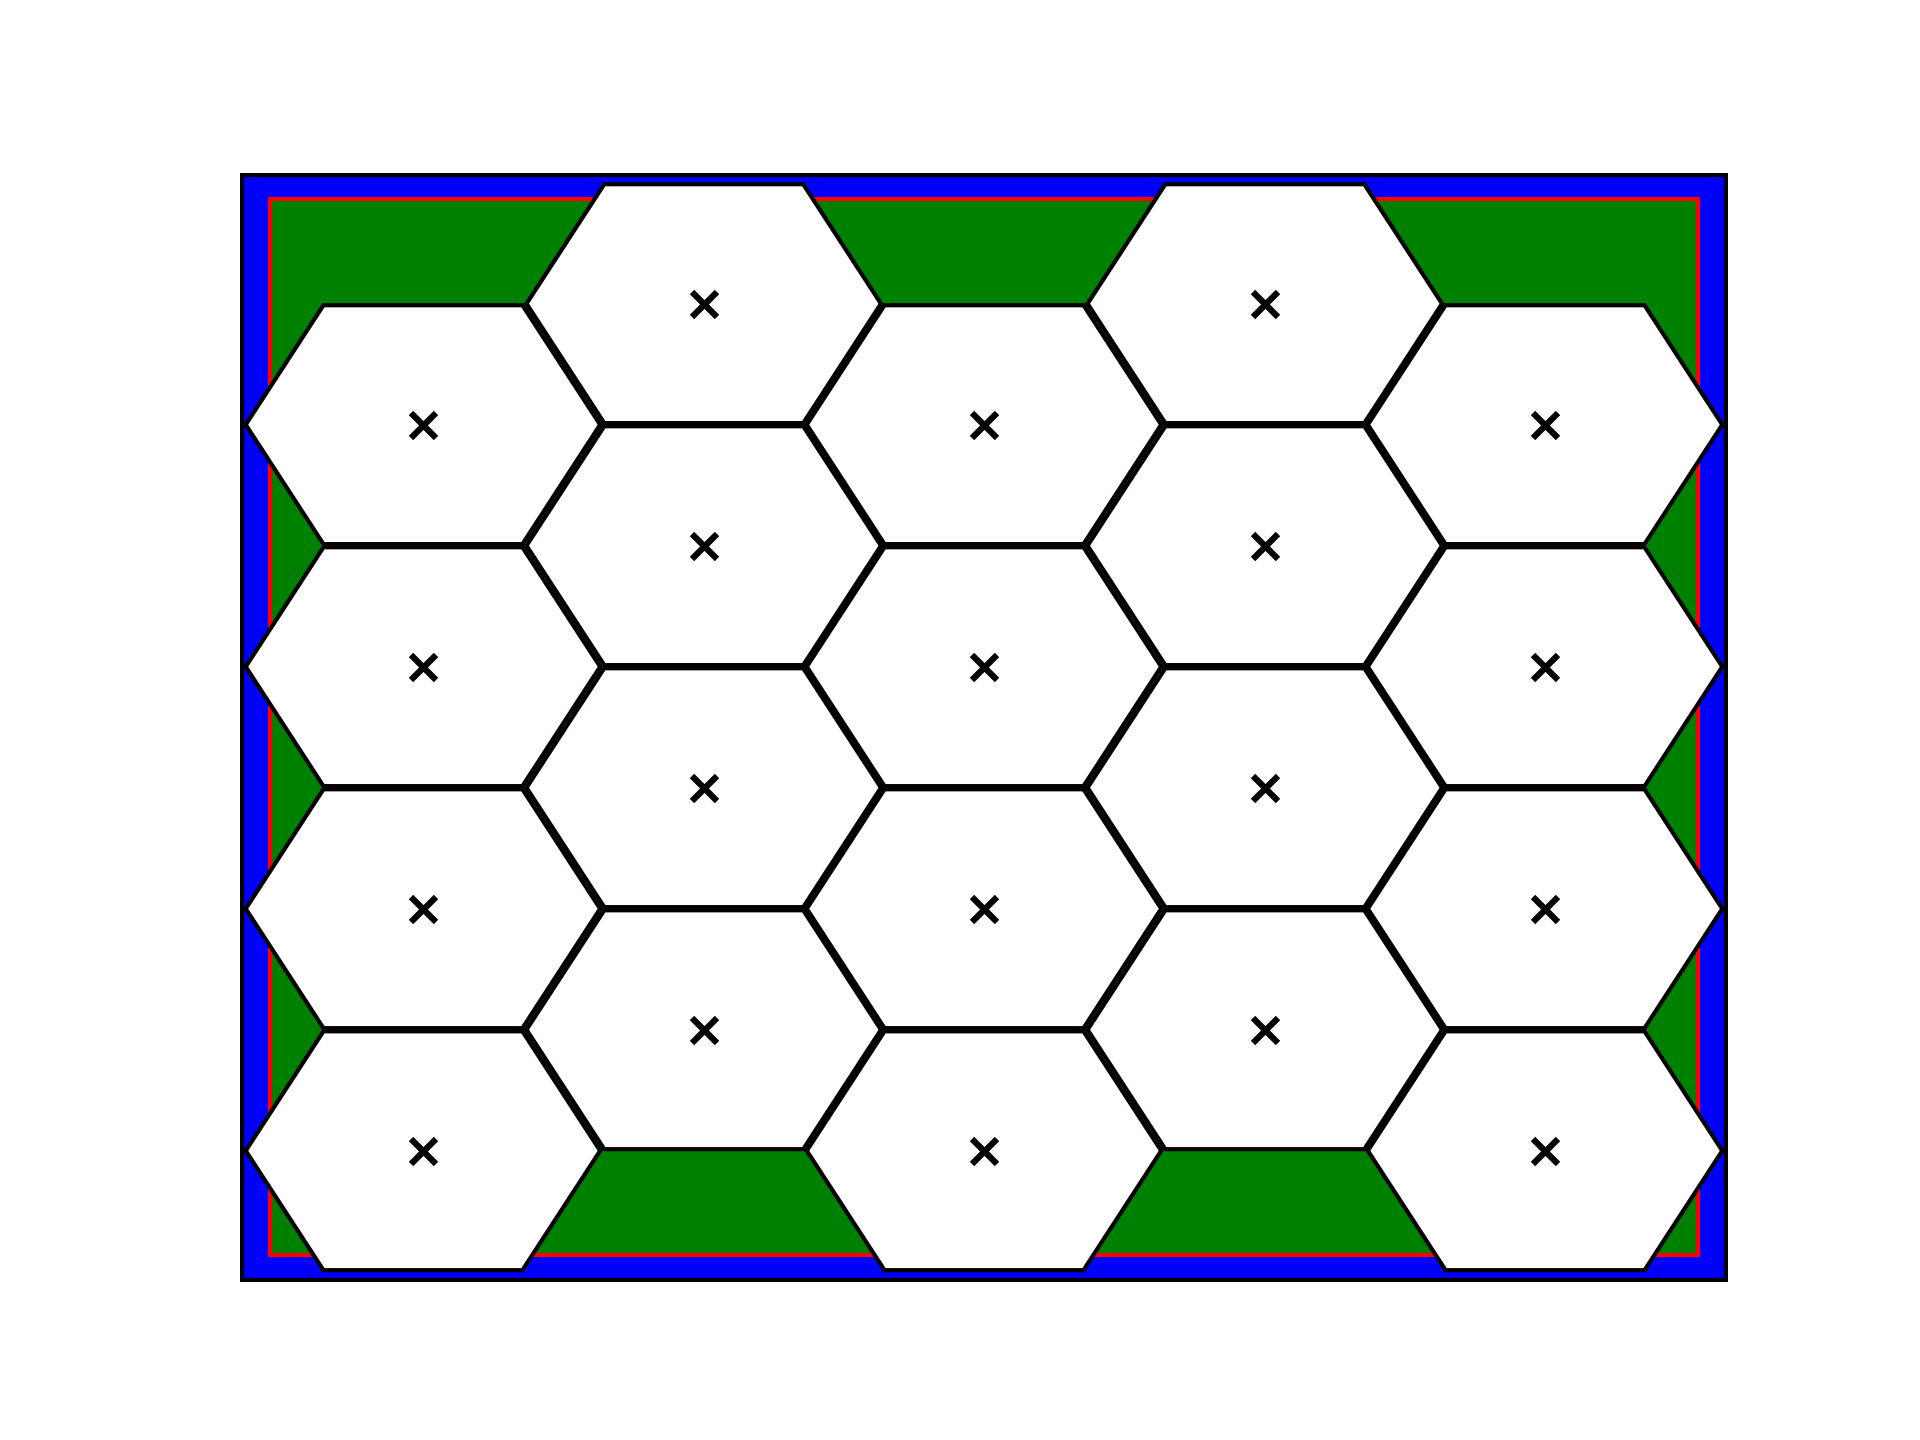
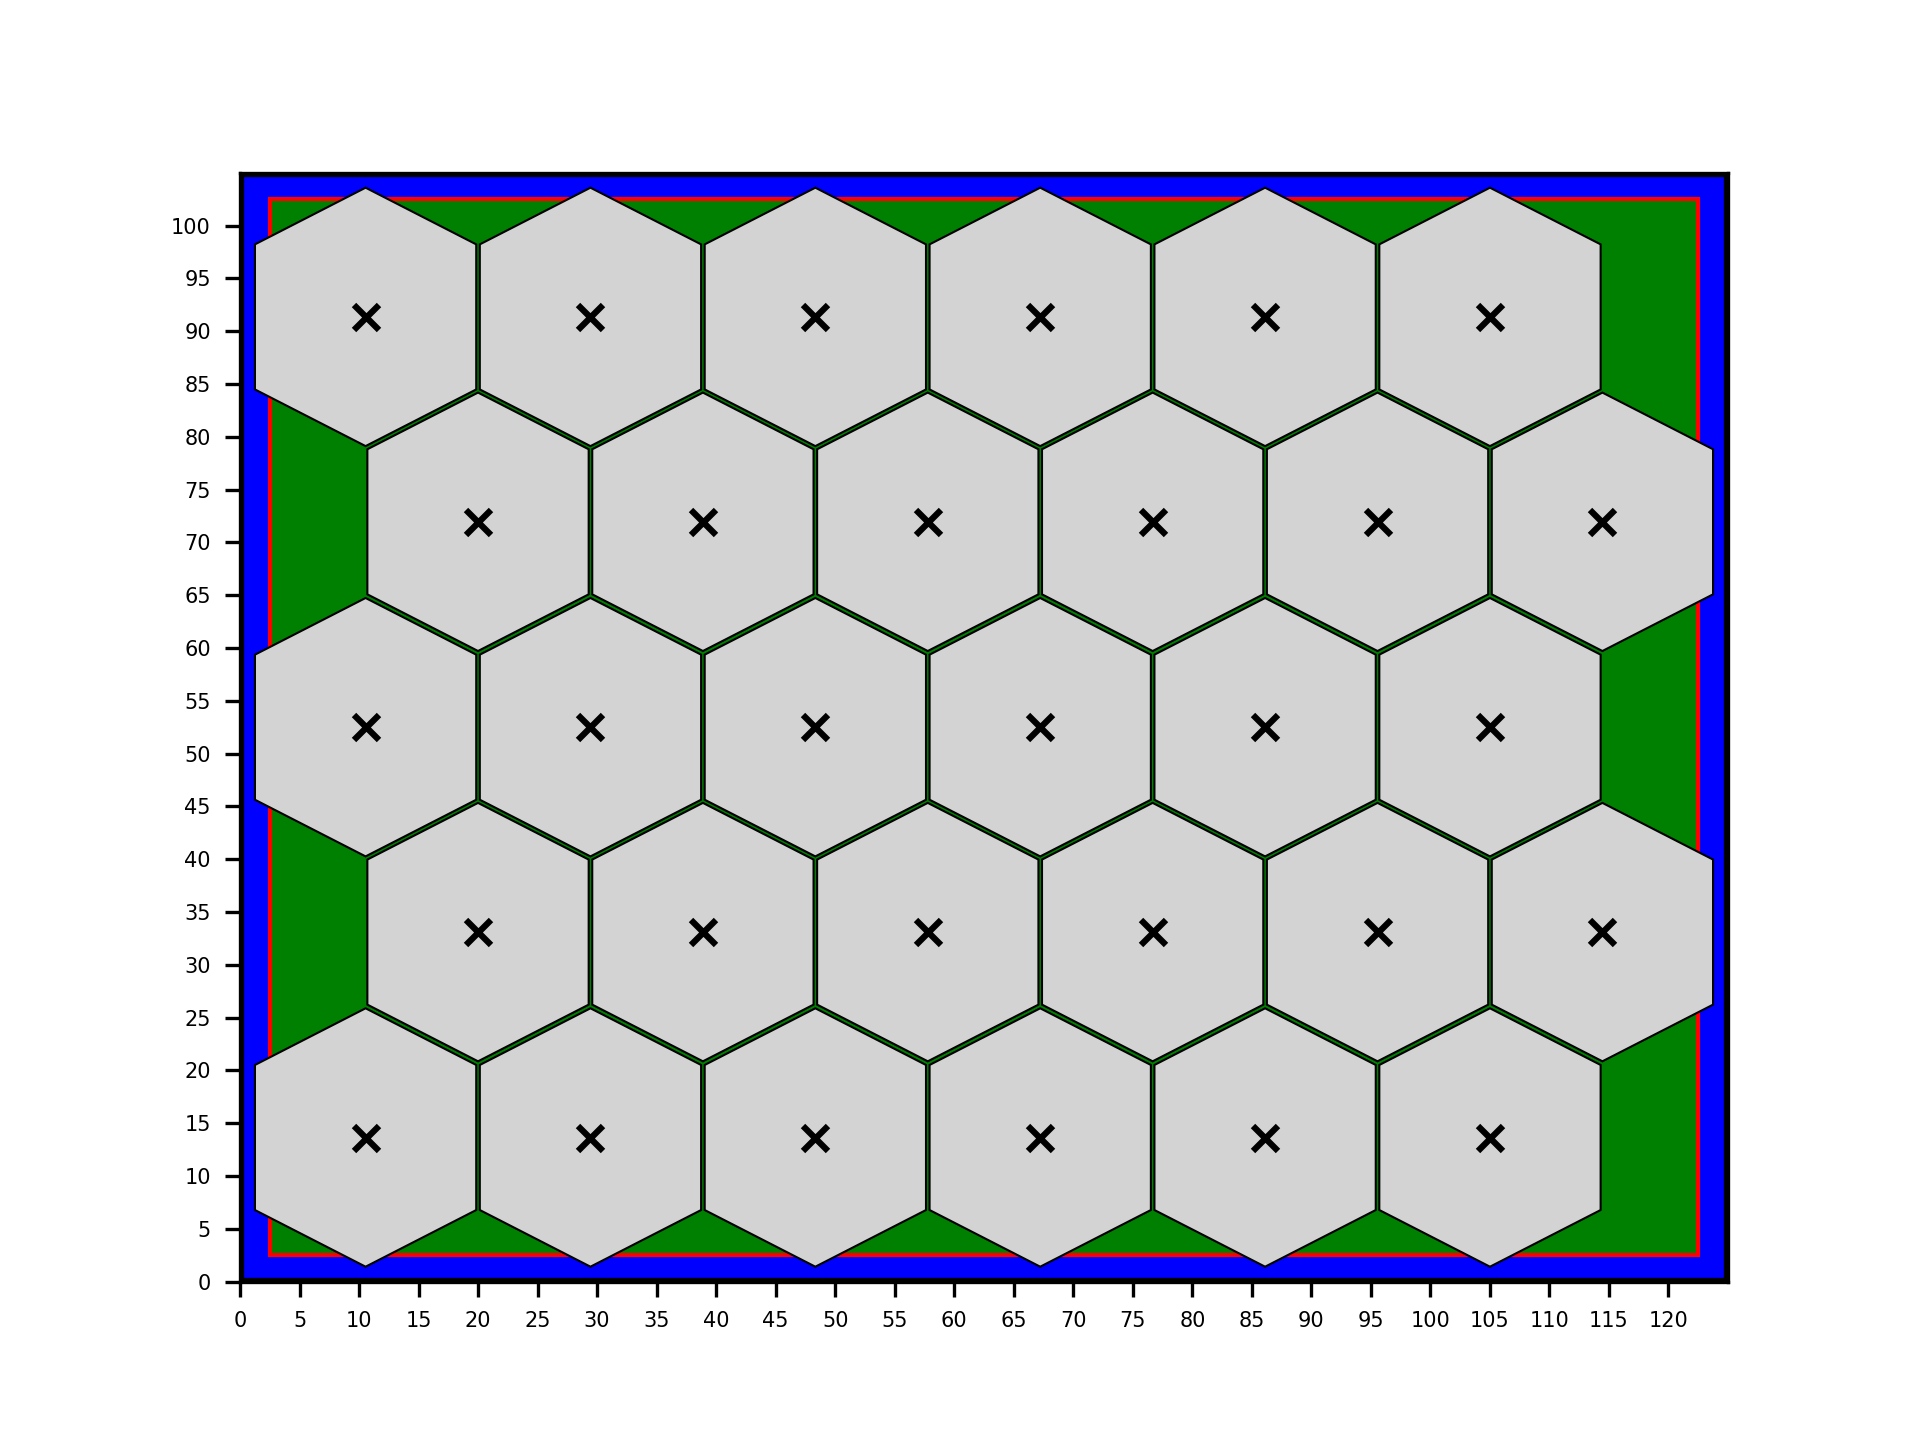
changelog: updates

diff --git a/folder_2/Draw.py b/folder_2/Draw.py
@@ -1,6 +1,7 @@
 import matplotlib.pyplot as plt
 from matplotlib.patches import Rectangle
 from matplotlib.patches import Polygon
+import numpy as np
 
 def draw_rectangles(rectangles):
     # Create a rectangle object with width=120 and height=100
@@ -27,7 +28,7 @@ def draw_rectangles(rectangles):
         
         verts = rectangle.verts
         
-        rectangle_polygon = Polygon(verts, fill=True, facecolor='white', edgecolor='black', linewidth=1)
+        rectangle_polygon = Polygon(verts, fill=True, facecolor='#D3D3D3', edgecolor='black', linewidth=0.5)
         ax.add_patch(rectangle_polygon)
         # Plotting the dot
         plt.scatter(rectangle.center_x, rectangle.center_y, color='black', marker='x')
@@ -37,8 +38,36 @@ def draw_rectangles(rectangles):
 
     ax.set_xlim(0, 125)
     ax.set_ylim(0, 105)
+    
+    axis = plt.gca()
+    
+    # Set the desired step length for the x-axis
+    step = 5
 
-    plt.axis('off')
+    # Generate new tick positions based on the step length for the x-axis
+    new_xticks = np.arange(0, 125, step)
+    new_yticks = np.arange(0, 105, step)
+    
+    print(new_xticks)
+    print(new_yticks)
+    
+    # Set the new tick positions
+    axis.set_xticks(new_xticks)
+    axis.set_yticks(new_yticks)
+    
+    # Decrease the font size of x-axis labels
+    axis.set_xticklabels(axis.get_xticklabels(), fontsize=5)
+
+    # Decrease the font size of y-axis labels
+    axis.set_yticklabels(axis.get_yticklabels(), fontsize=5)
+
+
+    
+
+    
+    
+
+    #plt.axis('off')
     # Display the plot
     #plt.show()
     #if (index == 9999):

diff --git a/folder_1/Draw.py b/folder_1/Draw.py
@@ -1,6 +1,7 @@
 import matplotlib.pyplot as plt
 from matplotlib.patches import Rectangle
 from matplotlib.patches import Polygon
+import numpy as np
 
 def draw_hexagons(hexagons):
     # Create a rectangle object with width=120 and height=100
@@ -26,7 +27,7 @@ def draw_hexagons(hexagons):
     for hexagon in hexagons:
         verts = hexagon.verts
         
-        hexagon_polygon = Polygon(verts, fill=True, facecolor='white', edgecolor='black', linewidth=1)
+        hexagon_polygon = Polygon(verts, fill=True, facecolor='#D3D3D3', edgecolor='black', linewidth=0.5)
         ax.add_patch(hexagon_polygon)
         # Plotting the dot
         plt.scatter(hexagon.origin_x, hexagon.origin_y, color='black', marker='x')
@@ -38,8 +39,32 @@ def draw_hexagons(hexagons):
     ax.set_xlim(0, 125)
     ax.set_ylim(0, 105)
     
+    axis = plt.gca()
+    
+    # Set the desired step length for the x-axis
+    step = 5
 
-    plt.axis('off')
+    # Generate new tick positions based on the step length for the x-axis
+    new_xticks = np.arange(0, 125, step)
+    new_yticks = np.arange(0, 105, step)
+    
+    print(new_xticks)
+    print(new_yticks)
+    
+    # Set the new tick positions
+    axis.set_xticks(new_xticks)
+    axis.set_yticks(new_yticks)
+    
+    # Decrease the font size of x-axis labels
+    axis.set_xticklabels(axis.get_xticklabels(), fontsize=5)
+
+    # Decrease the font size of y-axis labels
+    axis.set_yticklabels(axis.get_yticklabels(), fontsize=5)
+
+
+    
+
+    #plt.axis('off')
 
     # Display the plot
     #plt.show()
